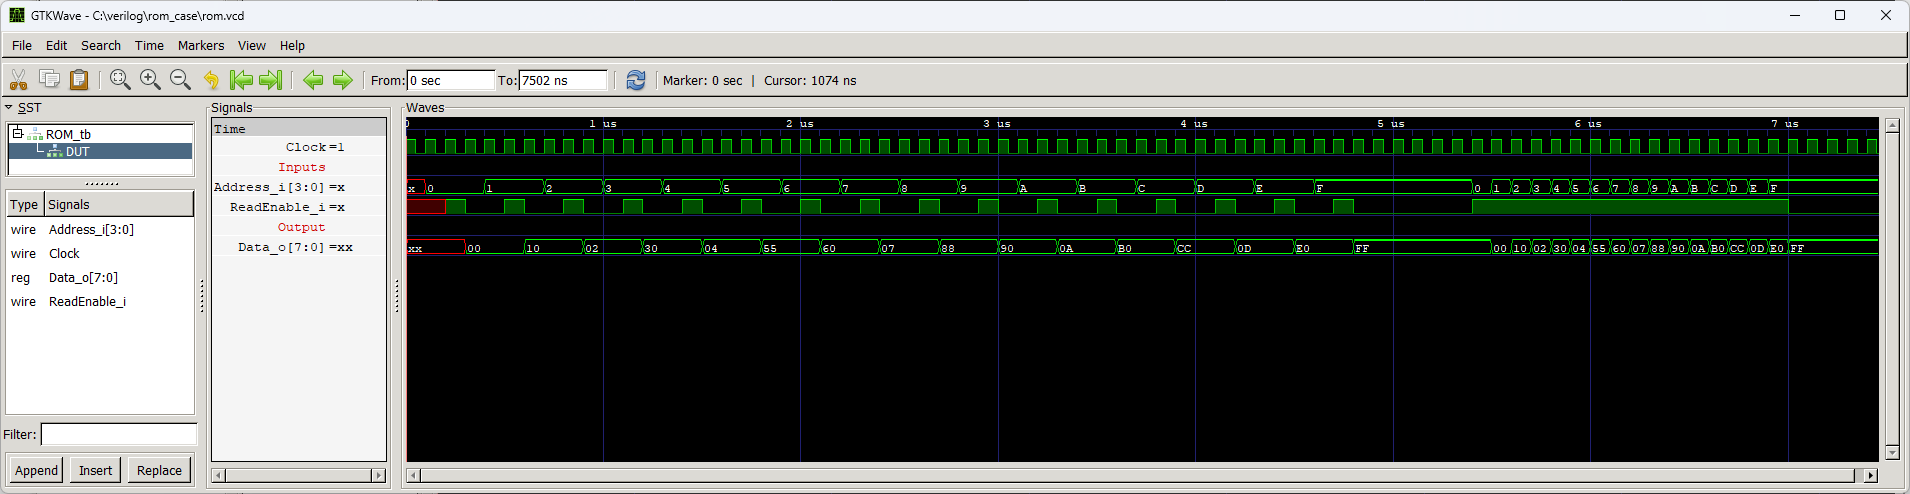
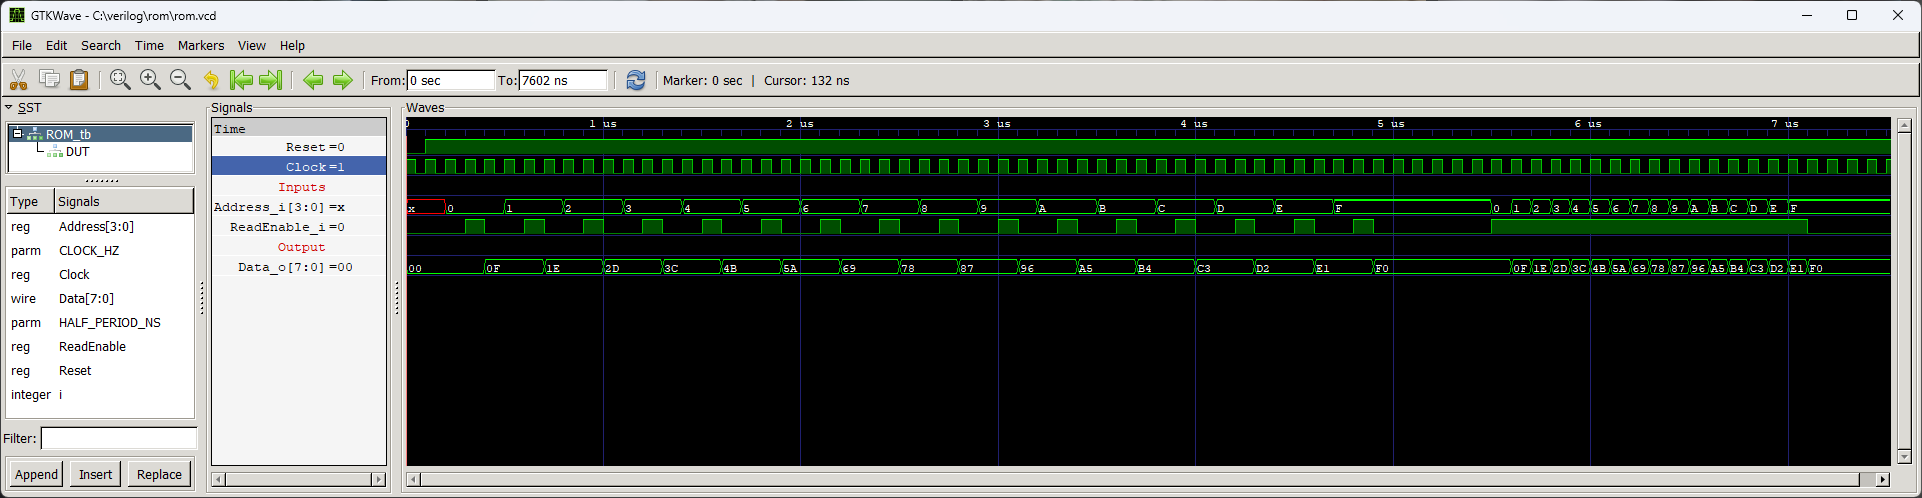
ROM simulation and readme

diff --git a/rom/readme.md b/rom/readme.md
@@ -1,13 +1,18 @@
-# ROM - case implementation
+# ROM Memory
 
 >**Status**: ready
 
-This is very a simple implementation of ROM memory using `case` instruction. It has no practical sense - but can be used for educational purposes.
+Read only memory. This module can be used to store permanent information, such as the code of a program executed by the processor, for example.
 
 ## Instantiation
-
-    ROM ROM_inst(
+    
+    ROM #(
+        .ADDRESS_WIDTH(),
+        .DATA_WIDTH(),
+        .MEMORY_FILE("data.mem")
+    ) ROM_inst(
         .Clock(Clock),
+        .Reset(Reset),
         .ReadEnable_i(),
         .Address_i(),
         .Data_o()
@@ -15,7 +20,11 @@ This is very a simple implementation of ROM memory using `case` instruction. It 
 
 ## Port description
 
++ **ADDRESS_WIDTH** - Number of address bus bits. Determines the size of the memory. The memory size is equal to 2^ADDRESS_WIDTH.
++ **DATA_WIDTH** - Number of data bus bits. Most common values are 8, 16 and 32. 
++ **MEMORY_FILE** - A file with the contents of the memory to be loaded as soon as the device starts up.
 + **Clock** - Clock signal, active rising edge.
++ **Reset** - Asynchronous reset, active low.
 + **ReadEnable_i** - If 1 then on the next clock edge the requested data is ready.
 + **Address_i** - Address of the byte requested to be read on the next clock edge.
 + **Data_o** - Value of the requested byte.
@@ -29,21 +38,21 @@ This is very a simple implementation of ROM memory using `case` instruction. It 
     VCD info: dumpfile rom.vcd opened for output.
     ===== START =====
             Time Ad Data
-         0.400us 0: 00
-         0.700us 1: 10
-         1.000us 2: 02
-         1.300us 3: 30
-         1.600us 4: 04
-         1.900us 5: 55
-         2.200us 6: 60
-         2.500us 7: 07
-         2.800us 8: 88
-         3.100us 9: 90
-         3.400us a: 0a
-         3.700us b: b0
-         4.000us c: cc
-         4.300us d: 0d
-         4.600us e: e0
-         4.900us f: ff
+         0.500us 0: 0f
+         0.800us 1: 1e
+         1.100us 2: 2d
+         1.400us 3: 3c
+         1.700us 4: 4b
+         2.000us 5: 5a
+         2.300us 6: 69
+         2.600us 7: 78
+         2.900us 8: 87
+         3.200us 9: 96
+         3.500us a: a5
+         3.800us b: b4
+         4.100us c: c3
+         4.400us d: d2
+         4.700us e: e1
+         5.000us f: f0
     ===== END =====
-    rom_tb.v:69: $finish called at 7502 (1ns)
+    rom_tb.v:78: $finish called at 7602 (1ns)

diff --git a/rom_case/readme.md b/rom_case/readme.md
@@ -1,4 +1,4 @@
-# ROM - case implementation
+# ROM Memory - case implementation
 
 >**Status**: ready
 
